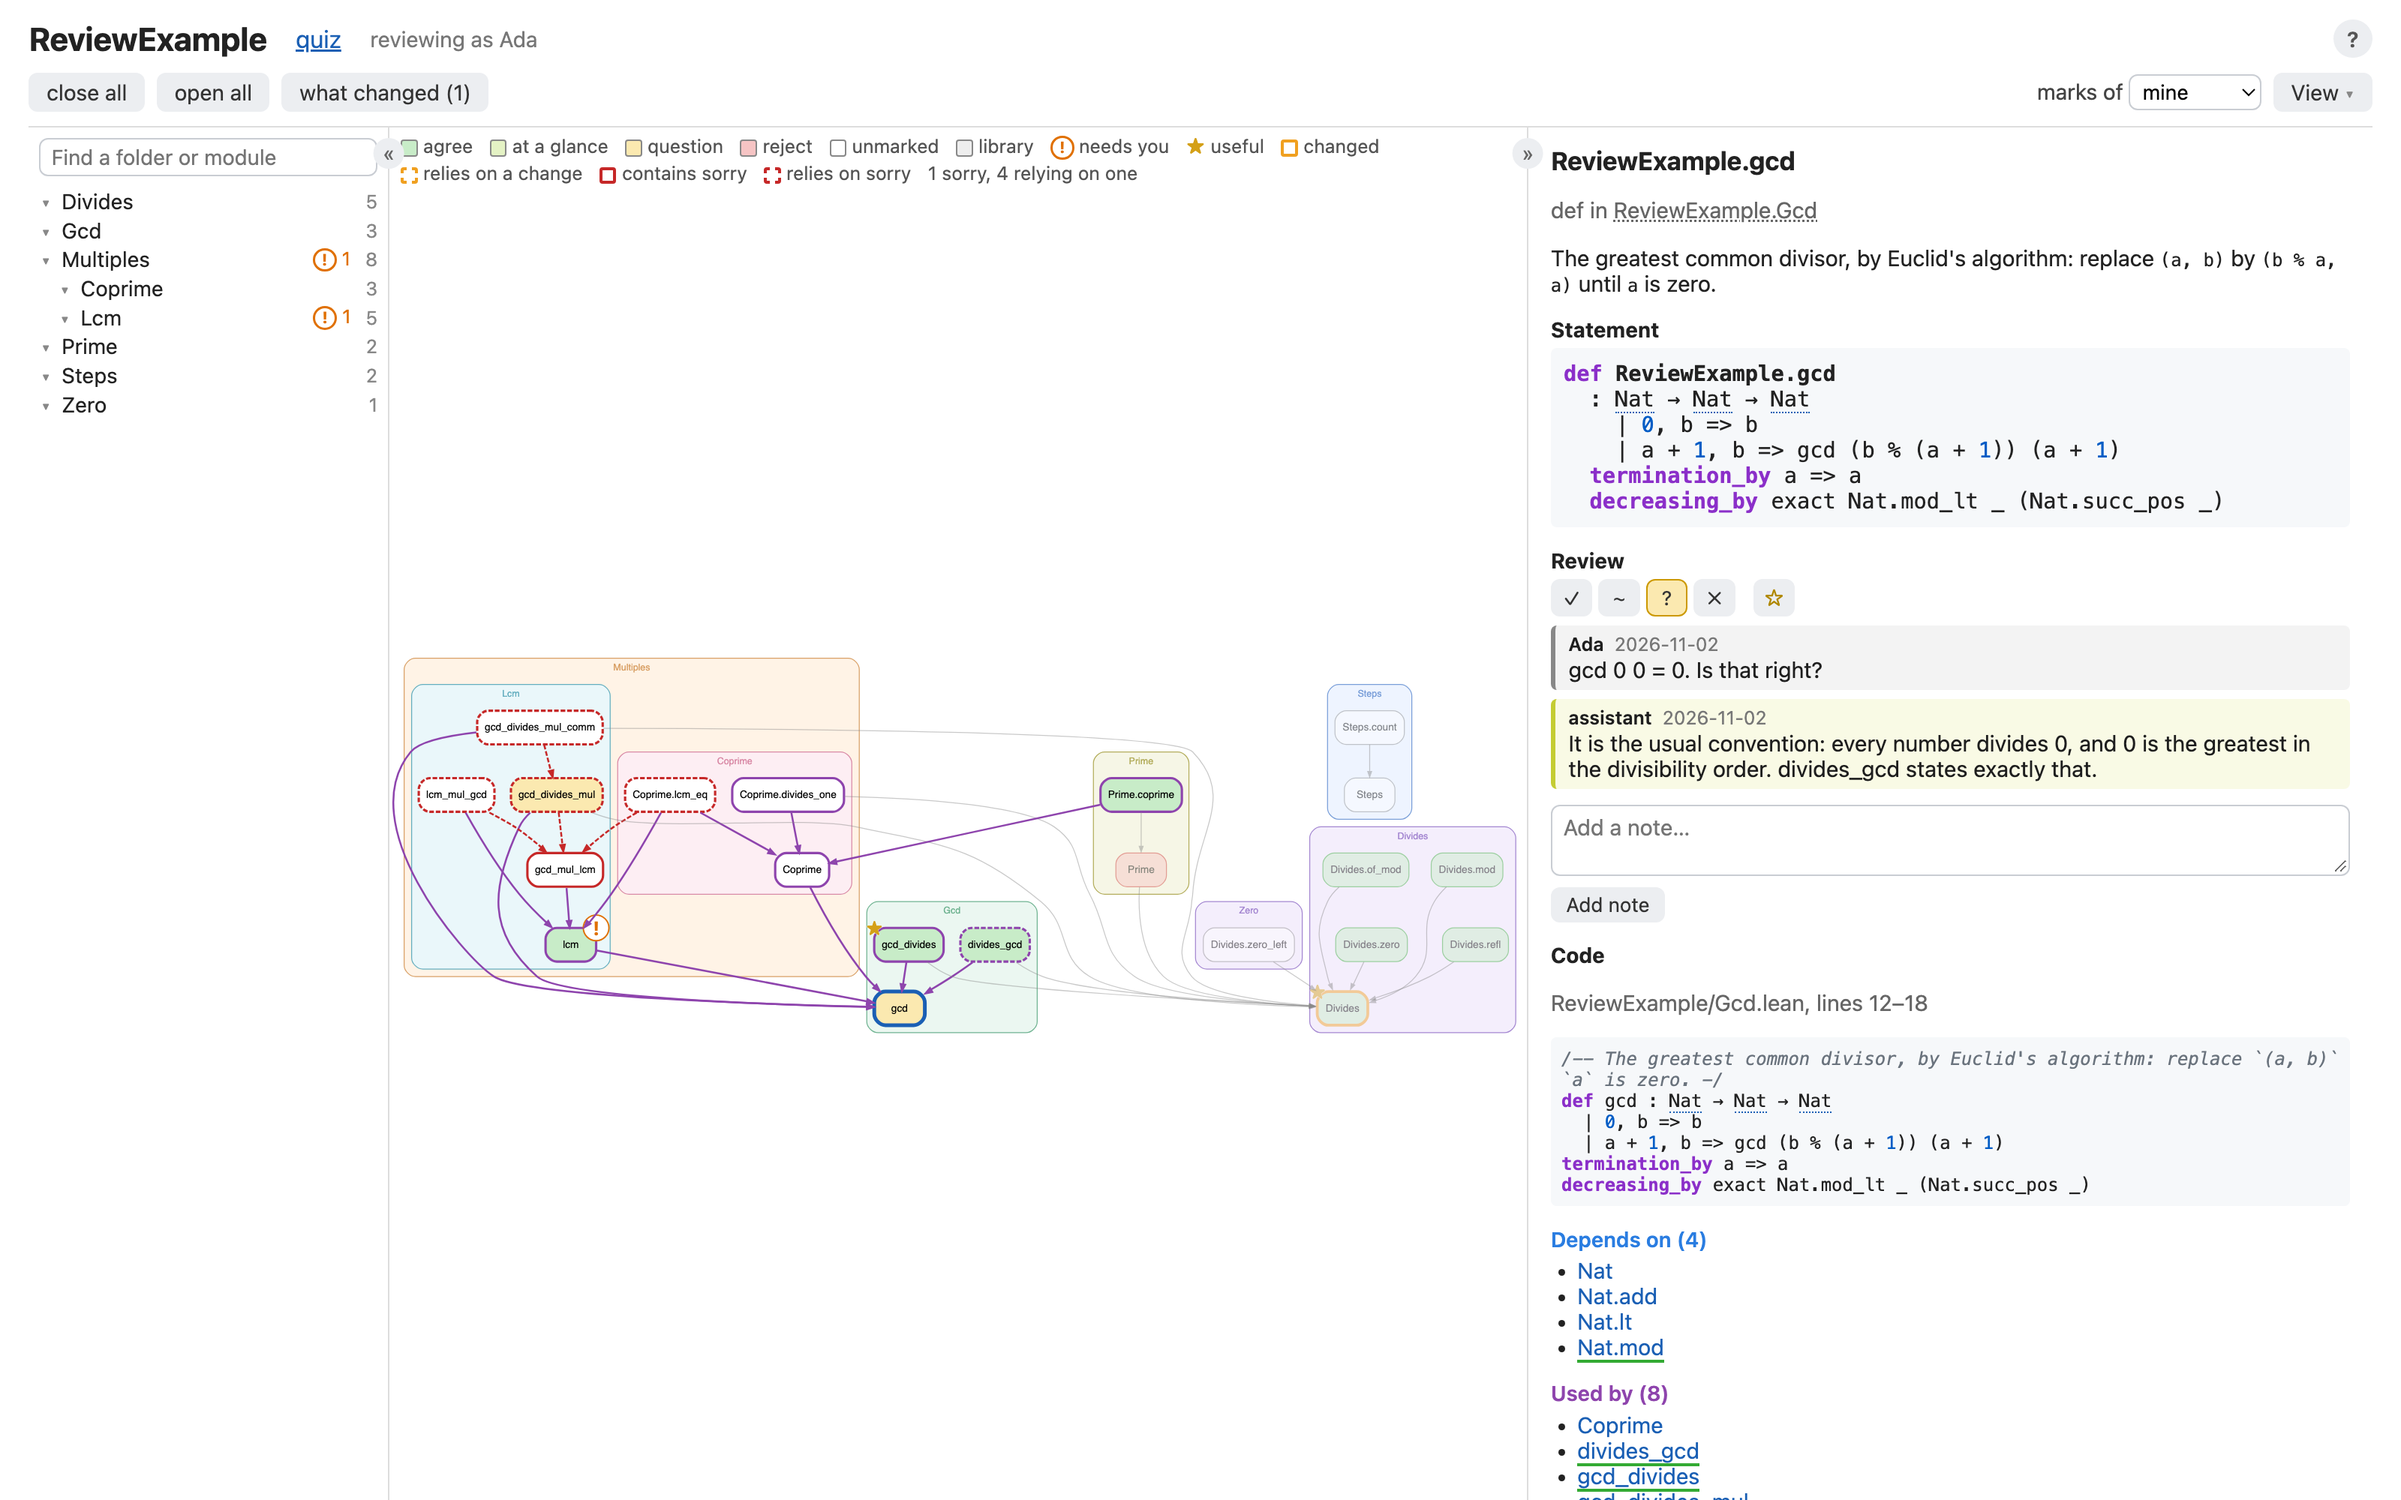
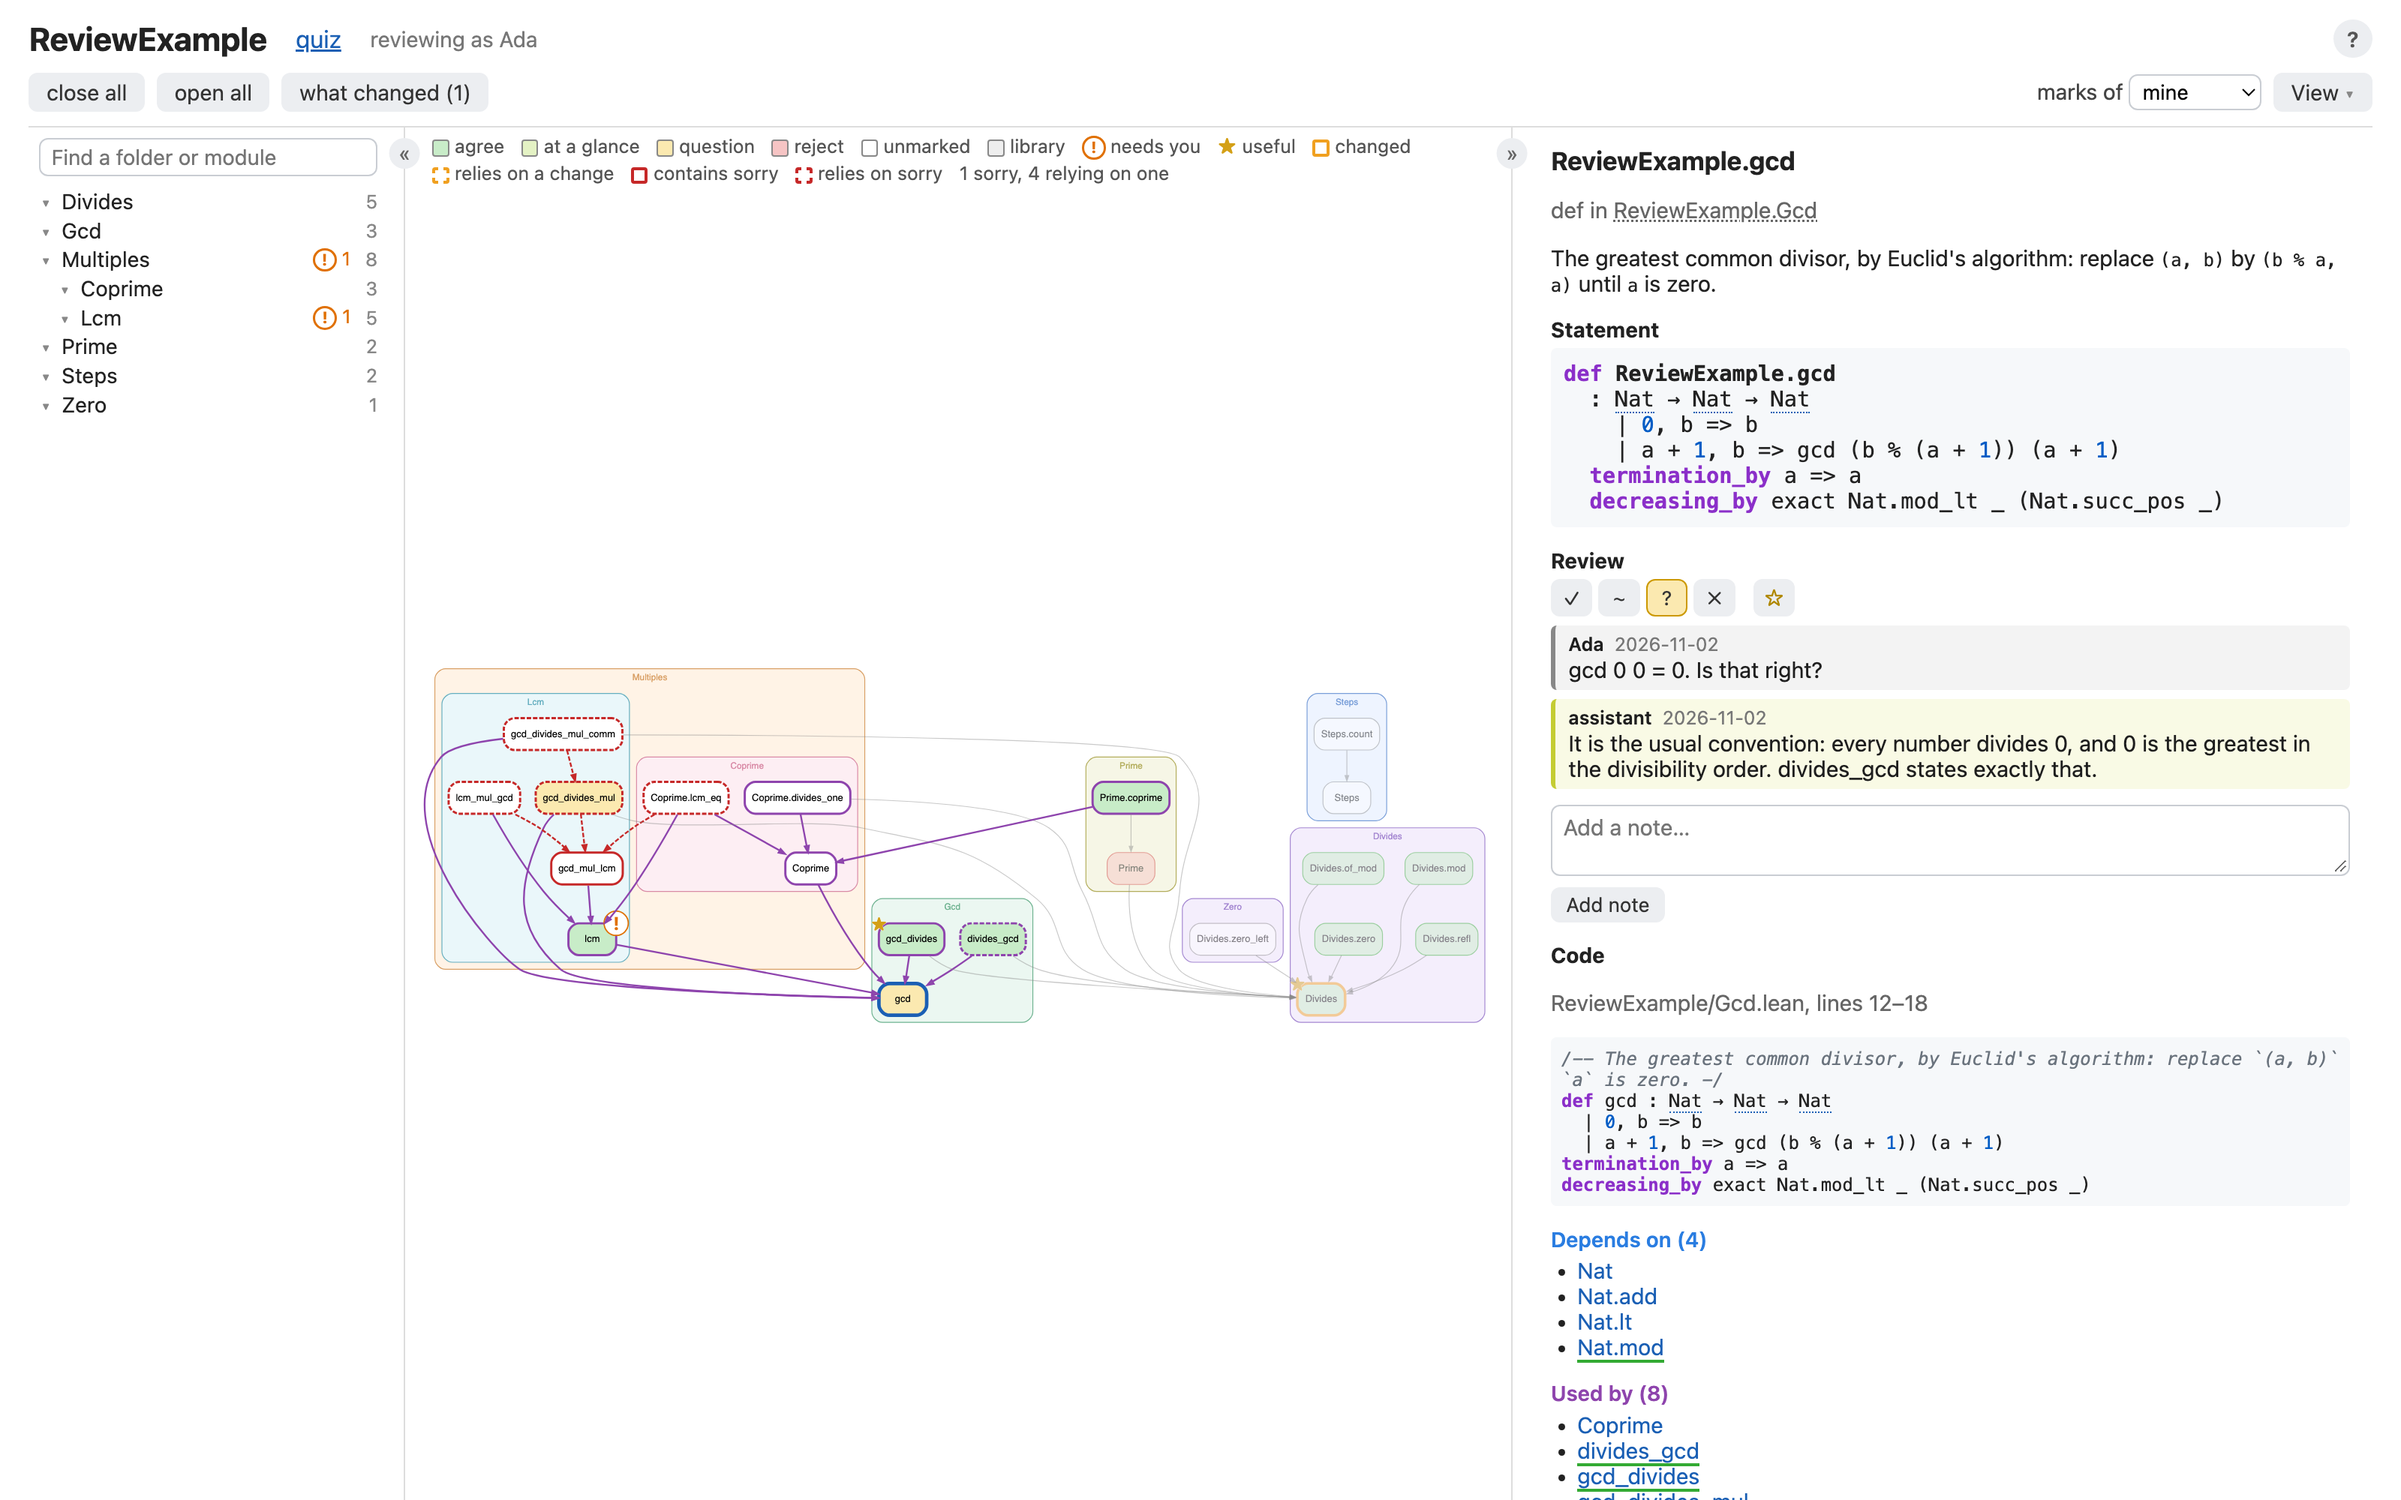
Give the panel buttons gutters of their own, so they cover nothing
On a 9-pixel line over the panels' edges, « and » covered the search box and
the key. Each divider is now a gutter as wide as its button.

diff --git a/lean_vouch/web/graph.html b/lean_vouch/web/graph.html
@@ -44,11 +44,12 @@
   /* Either side panel can be hidden, for a larger diagram, with the button on the line beside it,
      or made wider or narrower by dragging that line. */
   body.hide-tree #tree, body.hide-sidebar #sidebar { display: none; }
-  .divider { flex: none; width: 9px; margin: 0 -4px; z-index: 2; cursor: col-resize; touch-action: none; position: relative;
-    background: linear-gradient(to right, transparent 4px, #ddd 4px, #ddd 5px, transparent 5px); }
-  .divider:hover, .divider.dragging { background: linear-gradient(to right, transparent 3px, #1a5fb4 3px, #1a5fb4 6px, transparent 6px); }
+  /* A gutter as wide as its button, so neither covers the panels; the line runs down its middle. */
+  .divider { flex: none; width: 22px; z-index: 2; cursor: col-resize; touch-action: none; position: relative;
+    background: linear-gradient(to right, transparent 10.5px, #ddd 10.5px, #ddd 11.5px, transparent 11.5px); }
+  .divider:hover, .divider.dragging { background: linear-gradient(to right, transparent 9.5px, #1a5fb4 9.5px, #1a5fb4 12.5px, transparent 12.5px); }
   body.hide-tree .divider[data-panel=tree], body.hide-sidebar .divider[data-panel=sidebar] { cursor: default; background:
-    linear-gradient(to right, transparent 4px, #ddd 4px, #ddd 5px, transparent 5px); }
+    linear-gradient(to right, transparent 10.5px, #ddd 10.5px, #ddd 11.5px, transparent 11.5px); }
   .panel-toggle { position: absolute; top: 0.5em; left: 50%; transform: translateX(-50%); width: 1.5em; height: 1.5em;
     padding: 0; border-radius: 50%; border: none; background: #eceef1; color: #666; font-size: 0.85em;
     line-height: 1; cursor: pointer; }
